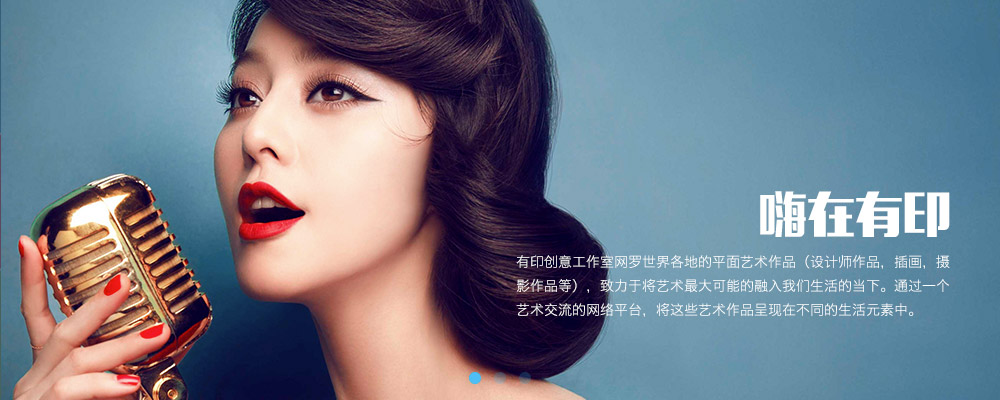
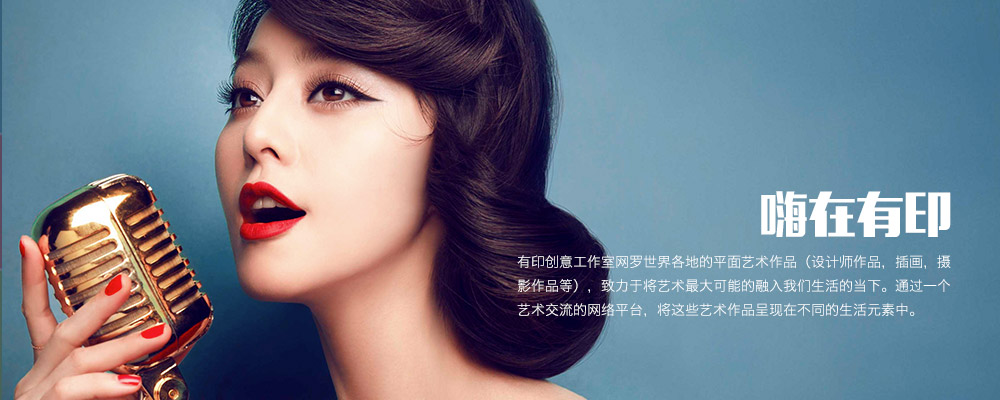
index

diff --git a/app/static/styles/page/index.scss b/app/static/styles/page/index.scss
@@ -12,18 +12,66 @@ $index-icons-layout: smart;
 	width: 100%;
 	height: 400px;
 	position: relative;
+	.scrollable{
+		width: 100%;
+		height: 100%;
+		overflow: hidden;
+		position: relative;
+		.items{
+			width: 12800px;
+			position: absolute;
+		}
+	}
+	a{
+		display: block;
+		cursor: pointer;
+		float: left;	
+	}
 	img{
 		display: block;
 	}
-	.index-icons-arrow-left{
+	.navi{
 		position: absolute;
-		top: 100px;
-		left: -92px;
+		cursor: pointer;
+		width: 90px;
+		height: 400px;
+		top: 0;
+		i{
+			position: absolute;
+			top: 100px;
+		}
 	}
-	.index-icons-arrow-right{
+	.navi-pre{
+		left: -90px;
+		i{
+			left: 0;
+		}
+	}
+	.navi-next{
+		right: -90px;
+		i{
+			right: 0;
+		}
+	}
+	.scroll-point{
 		position: absolute;
-		top: 100px;
-		right: -95px;
+		width: 100%;
+		left: 0;
+		bottom: 15px;
+		text-align: center;
+		li{
+			display: inline-block;
+			width: 12px;
+			height: 12px;
+			margin-left: 12px;
+			&:first-child{
+				margin-left:0;
+			}
+			@include index-icons-sprite(pointer);
+			&.cur{
+				@include index-icons-sprite(pointer-h);
+			}
+		}
 	}
 }
 .product{
@@ -75,6 +123,10 @@ $index-icons-layout: smart;
 		position: relative;
 		margin-top: 25px;
 		height: 554px;
+		a{
+			display: block;
+			position: absolute;
+		}
 		.product-item-1{
 			width: 712px;
 			height: 554px;

diff --git a/app/static/scripts/page/index.js b/app/static/scripts/page/index.js
@@ -1,3 +1,24 @@
 YY.indexPage = {
-    
+    init:function(){
+        this.initBannerScroll();
+    },
+    initBannerScroll : function(){
+        var pointers = $('.scroll-point li');
+        $(".scrollable").scrollable(
+        {
+            circular: true,
+            mousewheel: false,
+            next: ".navi-next",
+            prev: ".navi-pre"
+        }).autoscroll({interval: 5000});
+        var api = $(".scrollable").data("scrollable");
+        api.onSeek(function() {
+            var current = this.getIndex();
+            pointers.filter('.cur').removeClass('cur');
+            pointers.eq(current).addClass('cur');
+        });
+    }
 }
+$(function(){
+    YY.indexPage.init();
+});

diff --git a/app/static/scripts/widget/base.js b/app/static/scripts/widget/base.js
@@ -1,9 +1,28 @@
 YY.base = {
     init : function(){
-
+    	this.initGotop();
     },
     initLogin : function(){
         
+    },
+    initGotop : function(){
+    	var gotop = $('#gotop i');
+    	$(window).on('scroll',function(){
+    		if ($(window).scrollTop() > $(window).height() * 2){
+    			gotop.show();
+    		}else{
+    			gotop.hide();
+    		}
+    	});
+    	gotop.click(function(){
+    		$('body').animate({
+    			scrollTop : 0
+    		},300);
+    	});
+
+
     }
 }
-YY.base.init();
+$(function(){
+	YY.base.init();
+});

diff --git a/app/static/styles/base/common.scss b/app/static/styles/base/common.scss
@@ -26,5 +26,20 @@ a{
     height: 170px;
     bottom: 0px;
 }
+#gotop{
+    position: fixed;
+    bottom: 315px;
+    width: 100%;
+    .gotop-inner{
+        width: 1000px;
+        margin: 0 auto;
+        position: relative;
+        i{
+            position: absolute;
+            cursor: pointer;
+            right: -90px;
+        }
+    }
+}
 @import '../widget/header';
 @import '../widget/footer';

diff --git a/app/static/scripts/widget/misc.js b/app/static/scripts/widget/misc.js
@@ -1,0 +1,3 @@
+YY.misc = {
+	
+}
